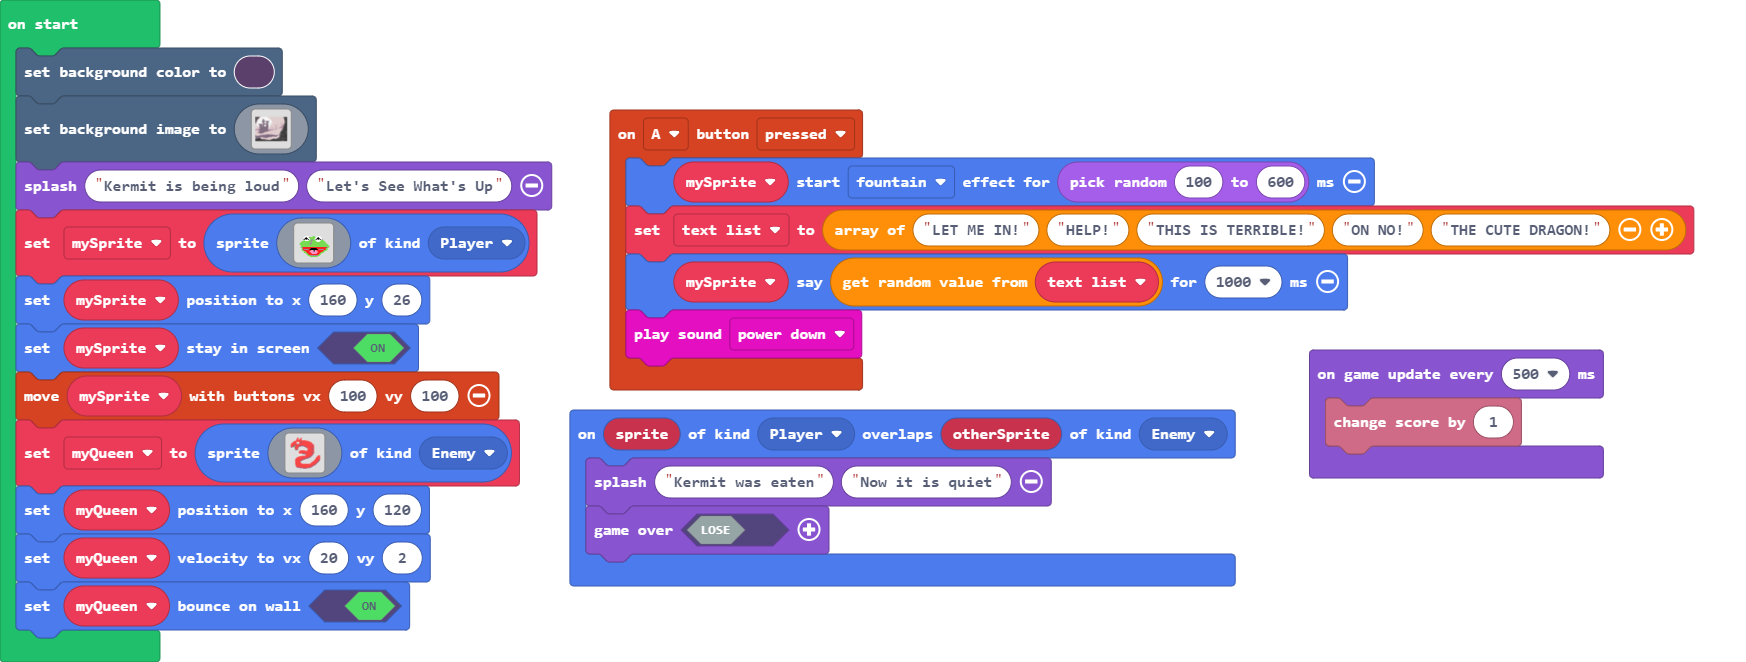
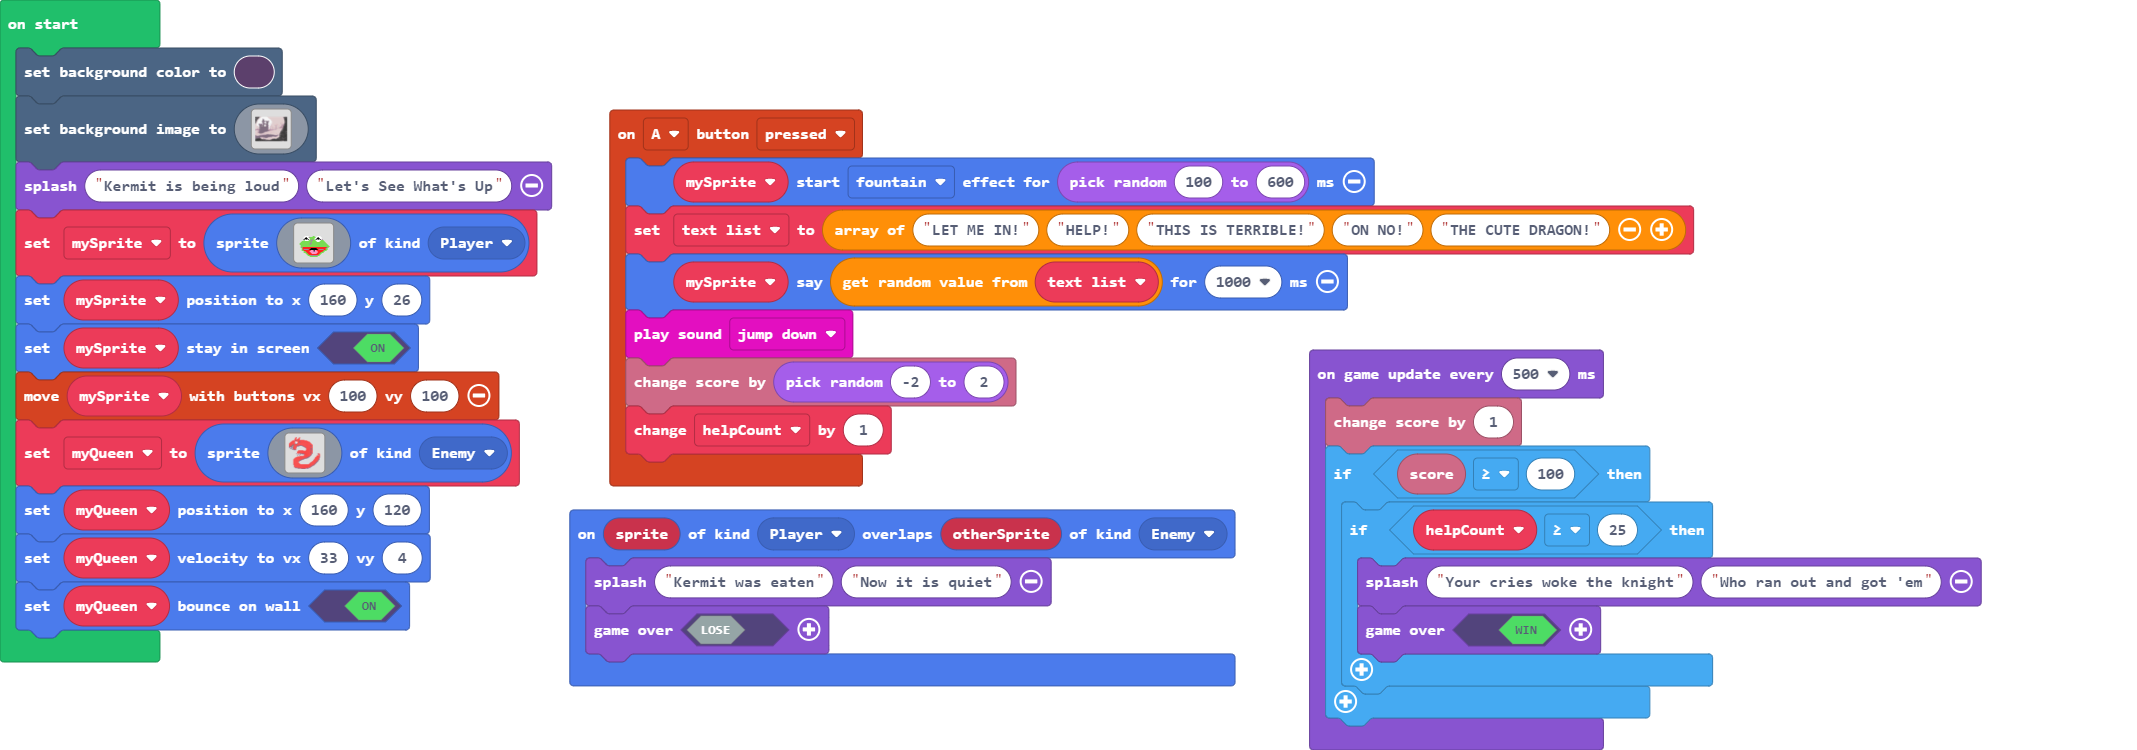
Update main.blocks, main.ts

diff --git a/main.ts b/main.ts
@@ -2,12 +2,15 @@ controller.A.onEvent(ControllerButtonEvent.Pressed, function () {
     mySprite.startEffect(effects.fountain, randint(100, 600))
     text_list = ["LET ME IN!", "HELP!", "THIS IS TERRIBLE!", "ON NO!", "THE CUTE DRAGON!"]
     mySprite.say(text_list._pickRandom(), 1000)
-    music.powerDown.play()
+    music.jumpDown.play()
+    info.changeScoreBy(randint(-2, 2))
+    helpCount += 1
 })
 sprites.onOverlap(SpriteKind.Player, SpriteKind.Enemy, function (sprite, otherSprite) {
     game.splash("Kermit was eaten", "Now it is quiet")
     game.over(false)
 })
+let helpCount = 0
 let text_list: string[] = []
 let mySprite: Sprite = null
 scene.setBackgroundColor(12)
@@ -172,74 +175,78 @@ mySprite.setPosition(160, 26)
 mySprite.setStayInScreen(true)
 controller.moveSprite(mySprite, 100, 100)
 let myQueen = sprites.create(img`
-    ............................................................
-    ................2...........................................
-    ...............22.....22....................................
-    ..............222....22.....................................
-    ..............22....222.....................................
-    .............222..22222.....................................
-    .............2222222222.....................................
-    .............2222222222222222222............................
-    .........2222222222222c22222222222222.......................
-    ........22222222222222cc222222222222222.....................
-    ......22222222111112222c222222222222222222..................
-    .....22222222211111222cc2222222222222222222.................
-    ....22222222221f1112222222222222222222222222................
-    ...222222222221111c22222222222222222222222222...............
-    ..222222222222ccccc222222222222222222222222222..............
-    ..222222222c22222222222222222222222222222222222.............
-    ..2222222ccc222222222222222222222222222222222222............
-    ..222222cc7c2222222222cccccc222222222222222ccc22............
-    ..22222cc7c2222222cccc......cc222222222222222c22............
-    ..2222cc77c222222c............cc222222222222cc22............
-    ..cccc..11c222222...............cc22222222222222............
-    ....11..77c22222c.................c2222222222222............
-    .....1.117c22222...................c2222222222c2............
-    ........11c22222....................22222222ccc2............
-    ...........22222....................2222222222c2............
-    ...........ccccc....................2222222222c2............
-    ...................................222222222ccc2............
-    ....................2222222222.....2222222222222............
-    ....................2222222222222222222222222222............
-    ..................22222222222222222222222222cc22............
-    .................1222222222222222222222222222c22............
-    ................1122222222222222222222222222cc22............
-    ................1.22222cc2222222222222222222222c............
-    ..................11211...ccccc222222222222222c.............
-    ..................1...1........cc2222222222222..............
-    ..................1...1..........222222222222c..............
-    ...............................2222222222222c...............
-    ...............................222222222222c............2222
-    .......................2222222222222222222c.............2222
-    ..................2222222222222222222222cc.............22222
-    ................2222222222222222222222cc.............2222222
-    ..............2222222222222222222222ccc..............2222222
-    .............2222222222222222222cccc................22222222
-    ............222222222222222222cc....................22222222
-    ...........2222222222222222ccc.....................222222222
-    ...........22222222222222cc.......................222222222c
-    ...........222222222222cc........................222222222c.
-    ...........22222222222c..........................222222222c.
-    ...........2222222222c.........................2222222222c..
-    ...........222222222..........................222222222cc...
-    ...........2222222222.......................22222222222c....
-    ...........22222222222.....................22222222222c.....
-    ...........22222222222....................22222222222c......
-    ...........2222222222222.................22222222222c.......
-    ...........c222222222222222222222222222222222222222c........
-    ............2222222222222222222222222222222222222cc.........
-    ............22222222222222222222222222222222222cc...........
-    ............2222222222222222222222222222222222c.............
-    ............c2222222222222222222222222222222cc..............
-    .............222222222222222222222222222222c................
-    ..............cccc2222222222222222222222.cc.................
-    ...................ccccc22222222222.cccc....................
-    ..........................cccccccc..........................
-    ............................................................
+    ..............2.............................................
+    .............22.....22......................................
+    ............222....22.......................................
+    ............22....222.......................................
+    ...........222..22222.......................................
+    ...........2222222222.......................................
+    ...........222cc22222222222222..............................
+    .......22222cc22c222c22222222222222.........................
+    ......22222222222222cc222222222222222.......................
+    ....22222222111112222c222222222222222222....................
+    ...22222222211111222cc2222222222222222222...................
+    ..22222222221f1112222222222222222222222222..................
+    .222222222221111c22222222222222222222222222.................
+    222222222222ccccc222222222222222222222222222................
+    222222222c22222222222222222222222222222222222...............
+    2222222ccc222222222222222222222222222222222222..............
+    2c2222cc7c2222222222cccccc222222222222222ccc22..............
+    22222cc7c2222222cccc......cc222222222222222c22..............
+    2222ccccc222222c............cc222222222222cc22..............
+    cccccc11c222222...............cc22222222222222..............
+    .c11ccccc22222c.................c2222222222222..............
+    ..c1c11cc22222...................c2222222222c2..............
+    ...ccc11c22222....................22222222ccc2..............
+    ......ccc22222....................2222222222c2..............
+    .........ccccc....................2222222222c2..............
+    .................................222222222ccc2..............
+    ..................2222222222.....2222222222222..............
+    ..................2222222222222222222222222222..............
+    ................22222222222222222222222222cc22..............
+    ...............1222222222222222222222222222c22..............
+    ..............1122222222222222222222222222cc22..............
+    ..............1c22222cc2222222222222222222222c..............
+    ..............c.11211c..ccccc222222222222222c...........222.
+    ................1c..1c.......cc2222222222222............cc22
+    ................1c..1c.........222222222222c..............22
+    ................c...c........2222222222222c...............22
+    .............................222222222222c............222222
+    .....................2222222222222222222c.............222222
+    ................2222222222222222222222cc.............222222c
+    ..............2222222222222222222222cc.............22222222c
+    ............2222222222222222222222ccc..............22222222.
+    ...........2222222222222222222cccc................222222222.
+    ..........222222222222222222cc....................22222222c.
+    .........2222222222222222ccc.....................222222222c.
+    .........22222222222222cc.......................222222222c..
+    .........222222222222cc........................222222222c...
+    .........22222222222c..........................222222222c...
+    .........2222222222c.........................2222222222c....
+    .........222222222..........................222222222cc.....
+    .........2222222222.......................22222222222c......
+    .........22222222222.....................22222222222c.......
+    .........22222222222....................22222222222c........
+    .........2222222222222.................22222222222c.........
+    .........c222222222222222222222222222222222222222c..........
+    ..........2222222222222222222222222222222222222cc...........
+    ..........22222222222222222222222222222222222cc.............
+    ..........2222222222222222222222222222222222c...............
+    ..........c2222222222222222222222222222222cc................
+    ...........222222222222222222222222222222c..................
+    ............cccc2222222222222222222222.cc...................
+    .................ccccc22222222222.cccc......................
+    ........................cccccccc............................
     `, SpriteKind.Enemy)
 myQueen.setPosition(160, 120)
-myQueen.setVelocity(20, 2)
+myQueen.setVelocity(33, 4)
 myQueen.setBounceOnWall(true)
 game.onUpdateInterval(500, function () {
     info.changeScoreBy(1)
+    if (info.score() >= 100) {
+        if (helpCount >= 25) {
+            game.splash("Your cries woke the knight", "Who ran out and got 'em")
+            game.over(true)
+        }
+    }
 })
